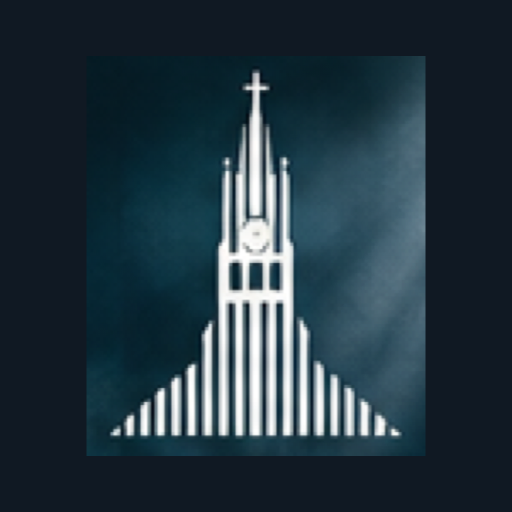
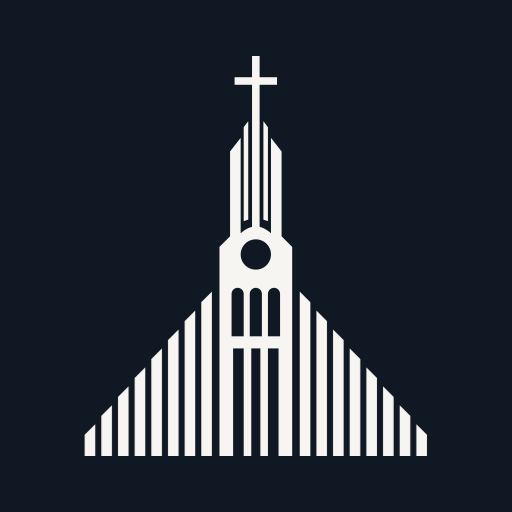
Refresh PWA branding and SVG identity
This commit replaces the legacy raster brand with a clean, theme-aware SVG logo set and updates the PWA assets to match. It adds generated brand SVGs, refreshes app icons and favicon, bumps manifest and cache versioning, and updates the header, sidebar, offline page, and install UI to use the new identity consistently.

diff --git a/src/worship-theme.css b/src/worship-theme.css
@@ -129,30 +129,31 @@
 .worship-sidebar.w-16 > div:first-child { padding-inline: 8px; }
 .worship-sidebar.w-16 nav { padding-inline: 6px; }
 
-/* Original Option B identity. The artwork keeps its original color and background. */
-:root { --brand-sand: #c8b896; }
-.worship-brand-logo { display:block; object-fit:contain; flex-shrink:0; max-width:100%; }
-.worship-sidebar-brand { display:flex; flex-direction:column; align-items:center; gap:14px; padding:24px 16px; border-bottom:1px solid var(--border); }
-.worship-sidebar-brand .worship-brand-logo { width:108px; height:auto; }
+/* Transparent navy / ivory identity, shared by both website themes. */
+:root { --brand-sand: #c8b896; --brand-ink: #294d62; }
+.dark { --brand-ink: #f6f5f1; }
+.worship-brand-logo { display:block; flex-shrink:0; max-width:100%; color:var(--brand-ink); overflow:visible; }
+.worship-sidebar-brand { display:flex; flex-direction:column; align-items:center; gap:18px; padding:28px 18px; border-bottom:1px solid var(--border); }
+.worship-sidebar-brand .worship-brand-logo { width:112px; height:auto; }
 .worship-sidebar-brand.is-collapsed { padding:20px 8px; }
 .worship-sidebar-brand.is-collapsed .worship-brand-logo { width:42px; height:auto; }
-.worship-brand-caption { margin:0; max-width:190px; text-align:center; color:var(--text-s); font-size:10px; line-height:1.8; letter-spacing:1.2px; text-transform:uppercase; }
+.worship-brand-caption { margin:0; max-width:172px; text-align:center; color:var(--text-s); font-size:9px; line-height:1.9; letter-spacing:1px; text-transform:uppercase; }
 [dir=rtl] .worship-brand-caption { letter-spacing:0; }
 .worship-header-identity { display:flex; align-items:center; gap:16px; min-width:0; flex:1; }
-.worship-header-logo { width:48px; height:auto; }
+.worship-header-logo { width:32px; height:auto; }
 .worship-header-divider { height:24px; width:1px; background:var(--border); flex-shrink:0; }
 .worship-login { background:radial-gradient(ellipse at top, var(--accent-soft), transparent 65%),var(--bg-page); }
 .worship-login-card { border-top:3px solid var(--brand-sand); }
-.worship-login-heading { background:#101923; color:#f6f5f1; }
-.worship-auth-logo { width:152px; height:auto; margin:0 auto 20px; }
-.worship-login-heading .worship-brand-mantra { color:#f6f5f1; font-family:'Cormorant Garamond',Georgia,serif; font-size:21px; line-height:1.4; margin:8px auto; }
+.worship-login-heading { background:var(--bg-card); color:var(--text-p); }
+.worship-auth-logo { width:128px; height:auto; margin:0 auto 20px; }
+.worship-login-heading .worship-brand-mantra { color:var(--text-p); font-family:'Cormorant Garamond',Georgia,serif; font-size:21px; line-height:1.4; margin:8px auto; }
 [dir=rtl] .worship-login-heading .worship-brand-mantra { font-family:'Cairo',sans-serif; font-size:18px; }
-.worship-login-heading p,.worship-login-heading button { color:#d1dce0; }
-.worship-login-heading button[aria-pressed=true] { background:#233a50; color:#f6f5f1; }
+.worship-login-heading p,.worship-login-heading button { color:var(--text-s); }
+.worship-login-heading button[aria-pressed=true] { background:var(--accent-soft); color:var(--accent); }
 .worship-login-heading button:focus-visible { outline-color:#c8b896; }
 .worship-page-heading h1 { font-weight:600; letter-spacing:-.4px; }
 @media(min-width:768px) { .worship-sidebar>div.worship-sidebar-brand { padding:24px 16px; } .worship-sidebar>div.worship-sidebar-brand.is-collapsed { padding:20px 8px; } }
-@media(max-width:480px) { .worship-header-identity { gap:9px; } .worship-header-logo { width:38px; } .worship-header-divider { display:none; } }
+@media(max-width:480px) { .worship-header-identity { gap:9px; } .worship-header-logo { width:30px; } .worship-header-divider { display:none; } }
 
 /* Installed phone windows, display cutouts and the on-screen keyboard. */
 html, body, #root { min-width: 0; max-width: 100%; }

diff --git a/src/components/pwa/InstallApp.jsx b/src/components/pwa/InstallApp.jsx
@@ -27,7 +27,7 @@ export default function InstallApp({card=false,menu=false}) {
     </div>}
     {guide&&<Modal open onClose={()=>setGuide(false)} title={isAr?'إضافة KDEC Worship إلى جهازك':'Add KDEC Worship to your device'} footer={<Btn variant="secondary" onClick={()=>setGuide(false)}>{isAr?'تم':'Done'}</Btn>}>
       <div className="space-y-4" dir={isAr?'rtl':'ltr'}>
-        <img className="pwa-guide-icon" src="/app-icon-192.png?v=pwa3" width="80" height="80" alt="KDEC Worship"/>
+        <img className="pwa-guide-icon" src="/app-icon-192.png?v=pwa4" width="80" height="80" alt="KDEC Worship"/>
         {!pwa.secure&&<p role="alert" className="text-amber-700">{isAr?'افتح رابط المنصة الآمن HTTPS للتثبيت. معاينة عنوان شبكة محلي HTTP لا تدعم التثبيت.':'Open the deployed HTTPS website to install. An HTTP local-network preview does not support installation.'}</p>}
         <ol className="list-decimal ps-5 space-y-3 text-sm">{installSteps(pwa.platform,isAr).map(step=><li key={step}>{step}</li>)}</ol>
         <p className="text-sm text-slate-500">{isAr?'تحتاج إلى الإنترنت لعرض أحدث جدول وحفظ الردود. قد تحتاج إلى تسجيل الدخول عند أول فتح للتطبيق.':'An internet connection is needed for the current calendar and saved responses. You may need to sign in when you first open the installed app.'}</p>
@@ -37,7 +37,7 @@ export default function InstallApp({card=false,menu=false}) {
   </>
   if(!card)return <>{content}</>
   return <Card className="pwa-install-card p-5 space-y-4">
-    <div className="flex items-start gap-3"><img src="/app-icon-192.png?v=pwa3" width="56" height="56" className="pwa-guide-icon" alt="KDEC Worship"/><div><h2 className="font-display text-xl font-semibold">{isAr?'KDEC Worship على جهازك':'KDEC Worship on your device'}</h2><p className="text-sm text-slate-500 mt-1">{isAr?'الجدول والترانيم وتكليفاتك، من أيقونة على الشاشة الرئيسية.':'Your calendar, songs and assignments, one Home Screen icon away.'}</p></div><Smartphone size={20} aria-hidden="true" className="hidden sm:block text-slate-400"/></div>
+    <div className="flex items-start gap-3"><img src="/app-icon-192.png?v=pwa4" width="56" height="56" className="pwa-guide-icon" alt="KDEC Worship"/><div><h2 className="font-display text-xl font-semibold">{isAr?'KDEC Worship على جهازك':'KDEC Worship on your device'}</h2><p className="text-sm text-slate-500 mt-1">{isAr?'الجدول والترانيم وتكليفاتك، من أيقونة على الشاشة الرئيسية.':'Your calendar, songs and assignments, one Home Screen icon away.'}</p></div><Smartphone size={20} aria-hidden="true" className="hidden sm:block text-slate-400"/></div>
     {content}
     {pwa.workerState==='error'&&<div className="text-sm text-slate-500"><p>{isAr?'تعذر إعداد صفحة المساعدة دون اتصال. المنصة متاحة عند الاتصال.':'Offline help could not be prepared. The app remains available online.'}</p><button type="button" className="underline" onClick={()=>void pwa.retryWorker()}>{isAr?'إعادة المحاولة':'Retry offline setup'}</button></div>}
     {pwa.workerState==='ready'&&<p className="text-xs text-slate-500">{isAr?'صفحة المساعدة دون اتصال جاهزة. بيانات الفريق لا تُخزّن في ذاكرة التطبيق المؤقتة.':'Offline help is ready. Team data is not stored in the app’s offline cache.'}</p>}

diff --git a/test/pwaWorker.test.js b/test/pwaWorker.test.js
@@ -26,7 +26,7 @@ function workerFixture() {
     },
     caches: {
       open: async () => cache,
-      keys: async () => ['kdec-offline-v2', 'kdec-offline-v3', 'another-app-cache'],
+      keys: async () => ['kdec-offline-v2', 'kdec-offline-v3', 'kdec-offline-v4', 'another-app-cache'],
       delete: async key => { deleted.push(key) },
     },
     fetch: request => network(request),
@@ -48,7 +48,7 @@ function workerFixture() {
 test('installation caches only four public offline assets without credentials', async () => {
   const worker = workerFixture()
   await worker.lifecycle('install')
-  assert.deepEqual(worker.writes.map(request => request.url), ['/offline.html', '/offline-retry.js', '/offline.css', '/brand/option-b-lockup.png'])
+  assert.deepEqual(worker.writes.map(request => request.url), ['/offline.html', '/offline-retry.js', '/offline.css', '/brand/kdec-clean-symbols.svg'])
   assert.ok(worker.writes.every(request => request.credentials === 'omit' && request.cache === 'reload'))
   assert.equal(worker.skipped(), false)
 })
@@ -56,7 +56,7 @@ test('installation caches only four public offline assets without credentials', 
 test('activation removes only old KDEC offline caches and claims existing windows', async () => {
   const worker = workerFixture()
   await worker.lifecycle('activate')
-  assert.deepEqual(worker.deleted, ['kdec-offline-v2'])
+  assert.deepEqual(worker.deleted, ['kdec-offline-v2', 'kdec-offline-v3'])
   assert.equal(worker.claimed(), true)
 })
 
@@ -85,7 +85,7 @@ test('navigations stay network-only; offline returns generic content without sav
 test('public offline page assets still load when disconnected', async () => {
   const worker = workerFixture()
   worker.failNetwork()
-  for (const path of ['/offline-retry.js', '/offline.css', '/brand/option-b-lockup.png']) {
+  for (const path of ['/offline-retry.js', '/offline.css', '/brand/kdec-clean-symbols.svg']) {
     assert.equal((await worker.fetch(path)).response.publicAsset, path)
   }
 })

diff --git a/scripts/generate-app-icons.swift b/scripts/generate-app-icons.swift
@@ -1,0 +1,32 @@
+// macOS AppKit rasterization of the same clean SVG used by the website.
+// Run through generate-app-icons.sh from the repository root.
+import AppKit
+
+let svg = try String(contentsOfFile: "public/brand/kdec-clean-tower.svg", encoding: .utf8)
+    .replacingOccurrences(of: "currentColor", with: "#f6f5f1")
+guard let image = NSImage(data: Data(svg.utf8)) else { fatalError("Cannot load clean tower SVG") }
+let assets: [(String, Int, CGFloat)] = [
+    ("app-icon-192.png", 192, 150),
+    ("app-icon-512.png", 512, 400),
+    ("app-icon-maskable-512.png", 512, 300),
+    ("apple-touch-icon.png", 180, 140),
+    ("favicon.png", 64, 50),
+]
+for (name, size, artworkHeight) in assets {
+    guard let bitmap = NSBitmapImageRep(bitmapDataPlanes: nil, pixelsWide: size, pixelsHigh: size,
+        bitsPerSample: 8, samplesPerPixel: 4, hasAlpha: true, isPlanar: false,
+        colorSpaceName: .deviceRGB, bytesPerRow: size * 4, bitsPerPixel: 32),
+        let context = NSGraphicsContext(bitmapImageRep: bitmap) else { fatalError("Cannot create icon canvas") }
+    NSGraphicsContext.saveGraphicsState()
+    NSGraphicsContext.current = context
+    NSColor(srgbRed: 16 / 255.0, green: 25 / 255.0, blue: 35 / 255.0, alpha: 1).setFill()
+    NSRect(x: 0, y: 0, width: size, height: size).fill()
+    context.imageInterpolation = .high
+    let artworkWidth = artworkHeight * 240 / 264
+    image.draw(in: NSRect(x: (CGFloat(size) - artworkWidth) / 2,
+        y: (CGFloat(size) - artworkHeight) / 2, width: artworkWidth, height: artworkHeight))
+    NSGraphicsContext.restoreGraphicsState()
+    guard let png = bitmap.representation(using: .png, properties: [:]) else { fatalError("Cannot encode icon") }
+    try png.write(to: URL(fileURLWithPath: "public/" + name))
+    print("Created \(name): \(size)×\(size)")
+}

diff --git a/public/offline.css b/public/offline.css
@@ -3,3 +3,6 @@
 main{width:100%;max-width:560px;padding:clamp(24px,6vw,44px);border:1px solid #d9ddd8;border-radius:28px;background:#fff;box-shadow:0 20px 70px #233a500d}img{display:block;object-fit:contain;border-radius:12px}.eyebrow{font-size:11px;letter-spacing:2px;color:#596963;margin-top:24px}h1{font-size:clamp(25px,6vw,34px);line-height:1.2;margin:12px 0 20px}h2{font-size:20px;margin-bottom:0}section{border-top:1px solid #dedbd2;margin-top:24px;padding-top:8px}button{min-height:48px;padding:12px 24px;border:1px solid #294d62;border-radius:16px;background:#294d62;color:#fff;font:inherit;font-weight:600;cursor:pointer}button:focus-visible{outline:3px solid #c8b896;outline-offset:4px}button:disabled{opacity:.65;cursor:wait}.hint{font-size:12px;color:#62685f;margin-top:24px}#connection-state{font-size:14px;font-weight:600}
 @media(prefers-color-scheme:dark){:root{color:#f6f5f1;background:#101923}body{background:radial-gradient(ellipse at 0 0,#233a50,transparent 70%),#101923}main{background:#14232d;border-color:#354651}section{border-color:#354651}.hint,.eyebrow{color:#c5ced0}button{background:#b5c6d0;border-color:#b5c6d0;color:#101923}}
 @media(prefers-contrast:more){main{border:2px solid currentColor;box-shadow:none}.hint,.eyebrow{color:inherit}}
+
+.offline-brand{display:block;color:#294d62}
+@media(prefers-color-scheme:dark){.offline-brand{color:#f6f5f1}}

diff --git a/src/pages/Profile.jsx b/src/pages/Profile.jsx
@@ -5,7 +5,7 @@ import { Save, Eye, EyeOff, Check, Calendar, Shield, Lock, Clock, Plus, X } from
 import { useStore } from '../store/useStore.jsx'
 import { useLang } from '../lib/i18n.jsx'
 import { Card, Btn, Badge, Avatar, Tabs } from '../components/ui'
-import { KDEC_LOGO } from '../assets/kdecLogo.js'
+import BrandLogo from '../components/BrandLogo.jsx'
 import { ACCESS_LEVEL_LABELS, isAdminUser } from '../lib/permissions.js'
 
 const DAYS_CONFIG = [
@@ -173,7 +173,7 @@ export default function Profile() {
               <div><strong className="text-slate-700">{confirmed}</strong> <span className="text-slate-400">{isAr?'مؤكدة':'confirmed'}</span></div>
             </div>
           </div>
-          <img src={KDEC_LOGO} alt="" className="hidden sm:block w-10 h-10 object-contain opacity-20 flex-shrink-0"/>
+          <div className="hidden sm:block"><BrandLogo compact className="w-10 h-11 opacity-30 flex-shrink-0"/></div>
         </div>
       </Card>
 

diff --git a/index.html b/index.html
@@ -6,8 +6,8 @@
     <meta name="viewport" content="width=device-width, initial-scale=1.0, viewport-fit=cover, interactive-widget=resizes-content" />
     <title>KDEC Worship</title>
     <meta name="description" content="Worship team planning and scheduling platform for Kasr El Doubara Evangelical Church" />
-    <link rel="manifest" href="/manifest.webmanifest?v=pwa3" />
-    <link rel="apple-touch-icon" sizes="180x180" href="/apple-touch-icon.png?v=2" />
+    <link rel="manifest" href="/manifest.webmanifest?v=pwa4" />
+    <link rel="apple-touch-icon" sizes="180x180" href="/apple-touch-icon.png?v=3" />
     <meta name="theme-color" content="#101923" />
     <meta name="apple-mobile-web-app-capable" content="yes" />
     <meta name="apple-mobile-web-app-status-bar-style" content="default" />

diff --git a/src/components/BrandLogo.jsx b/src/components/BrandLogo.jsx
@@ -1,14 +1,17 @@
-import { KDEC_LOGO, KDEC_TOWER } from '../assets/kdecLogo.js'
+import { KDEC_SYMBOLS } from '../assets/kdecLogo.js'
 
 export default function BrandLogo({ compact = false, className = '' }) {
   return (
-    <img
-      src={compact ? KDEC_TOWER : KDEC_LOGO}
-      alt="KDEC Worship"
-      width={compact ? 100 : 176}
-      height={compact ? 118 : 180}
+    <svg
+      role="img"
+      aria-label="KDEC Worship"
+      viewBox={compact ? '0 0 240 264' : '0 0 320 384'}
+      width={compact ? 40 : 112}
+      height={compact ? 44 : 134.4}
       className={`worship-brand-logo ${className}`}
-      decoding="async"
-    />
+      focusable="false"
+    >
+      <use href={`${KDEC_SYMBOLS}#${compact ? 'tower' : 'lockup'}`} />
+    </svg>
   )
 }

diff --git a/test/pwaAssets.test.js b/test/pwaAssets.test.js
@@ -62,6 +62,11 @@ test('every manifest icon and the Apple touch icon has correct dimensions and an
     const asset = png(new URL(icon.src, 'https://kdec.test').pathname.slice(1))
     assert.equal(`${asset.width}x${asset.height}`, icon.sizes)
     assert.deepEqual([...asset.pixels.subarray(0, 3)], [16, 25, 35])
+    let ivoryPixels = 0
+    for (let i = 0; i < asset.pixels.length; i += asset.channels) {
+      if (asset.pixels[i] >= 240 && asset.pixels[i + 1] >= 240 && asset.pixels[i + 2] >= 235) ivoryPixels++
+    }
+    assert.ok(ivoryPixels > asset.width * asset.height * .02, 'ivory tower must remain visible against navy')
     if (asset.channels === 4) {
       for (let i = 3; i < asset.pixels.length; i += 4) assert.equal(asset.pixels[i], 255)
     }

diff --git a/public/sw.js b/public/sw.js
@@ -1,7 +1,7 @@
 /* Public offline help only. Never cache app HTML, bundles, auth callbacks,
    Supabase requests, calendar data, notifications or private documents. */
-const CACHE='kdec-offline-v3'
-const PUBLIC_ASSETS=['/offline.html','/offline-retry.js','/offline.css','/brand/option-b-lockup.png']
+const CACHE='kdec-offline-v4'
+const PUBLIC_ASSETS=['/offline.html','/offline-retry.js','/offline.css','/brand/kdec-clean-symbols.svg']
 self.addEventListener('install',event=>{
   // Let the user choose when to activate an update; never force a form reload.
   event.waitUntil(caches.open(CACHE).then(cache=>cache.addAll(PUBLIC_ASSETS.map(path=>new Request(path,{cache:'reload',credentials:'omit'})))))

diff --git a/src/assets/kdecLogo.js b/src/assets/kdecLogo.js
@@ -1,4 +1,5 @@
-// Exact raster artwork extracted from the original Option B identity board.
-// No tracing, recoloring, filtering, or regenerated lettering.
-export const KDEC_LOGO = '/brand/option-b-lockup.png'
-export const KDEC_TOWER = '/brand/option-b-tower.png'
+// Clean, transparent artwork for the approved navy / ivory logo direction.
+// External SVG symbols inherit currentColor from the website theme.
+export const KDEC_LOGO = '/brand/kdec-clean-lockup.svg'
+export const KDEC_TOWER = '/brand/kdec-clean-tower.svg'
+export const KDEC_SYMBOLS = '/brand/kdec-clean-symbols.svg'

diff --git a/src/components/layout/Sidebar.jsx b/src/components/layout/Sidebar.jsx
@@ -59,7 +59,7 @@ export default function Sidebar() {
 
   return (
     <aside className={`worship-sidebar ${collapsed ? 'w-16' : 'w-60'} flex-shrink-0 flex-col transition-all duration-300 relative hidden md:flex`}>
-      {/* Original Option B artwork, unchanged in both sidebar sizes. */}
+      {/* Theme-aware clean lockup; tower only in the compact sidebar. */}
       <div className={`worship-sidebar-brand ${collapsed ? 'is-collapsed' : ''}`}>
         <BrandLogo compact={collapsed} />
         {!collapsed && <p className="worship-brand-caption">
